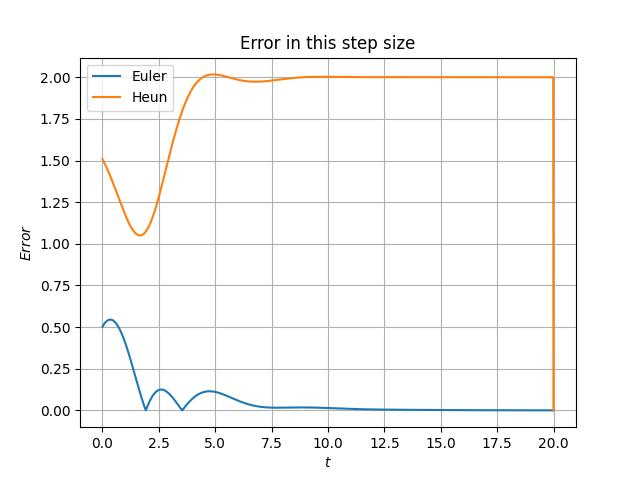
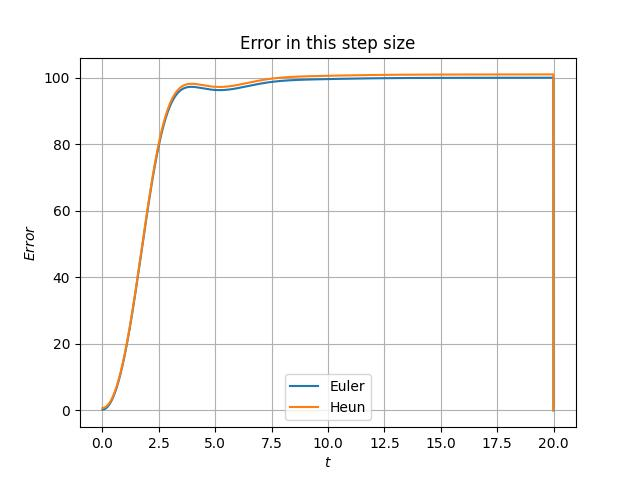
12

diff --git a/eular.py b/eular.py
@@ -10,6 +10,7 @@ h=float(input("step size:"))   #define the step size
 print("h=")
 print(h)
 
+x=np.arange(0,20,h) # each of the time point
 
 def Euler(f1,f2,f3,f4,x): #function for Euler method
     h=x[1]-x[0]
@@ -45,6 +46,11 @@ def heun(f1,f2,f3,f4,x): #function for Heun method
     return [z1,z2,z3,z4]
 
 
+f1=lambda z2,x: z2
+f2=lambda z1,z2,z4,x: -z1- 0.5*z2**2+   z4
+f3=lambda z4,x:            z4
+f4=lambda z2,z4,x:-z2-z4
+
 
 def ode(t,u): #odeint - the exact solution
     z1,z2,z3,z4=u
@@ -57,12 +63,6 @@ def ode(t,u): #odeint - the exact solution
 
 
 
-x=np.arange(0,20,h) # each of the time point
-
-f1=lambda z2,x: z2
-f2=lambda z1,z2,z4,x: -z1- z2+   z4
-f3=lambda z4,x:            z4
-f4=lambda z2,z4,x:-z2-z4
 
 [z1,z2,z3,z4]= Euler(f1,f2,f3,f4,x)  # z is the Euler method solution
 [w1,w2,w3,w4]= heun(f1,f2,f3,f4,x)   # w is the Heun method solution
